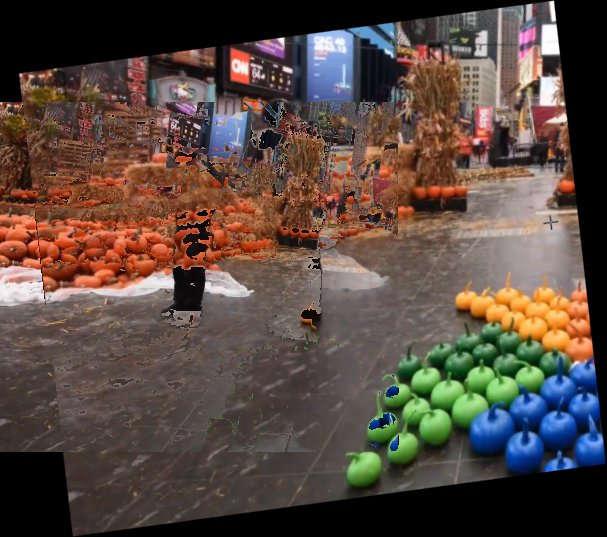
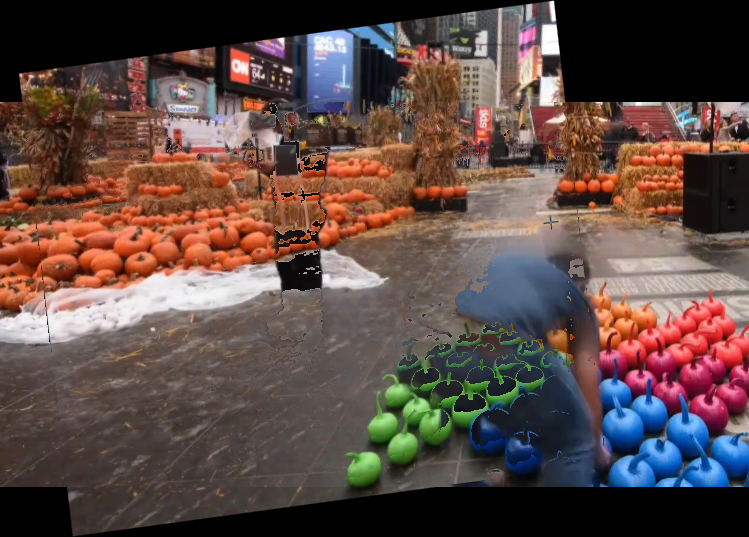
task1 integer typo earlier in script fixed

diff --git a/stitching.py b/stitching.py
@@ -98,7 +98,7 @@ def stitch_background(imgs: Dict[str, torch.Tensor]):
         # Step 1. Calculate mosaic canvas size
         # Extract each image and convert to float
         img1 = imgs[img_num[0]].float()
-        img2 = imgs[img_num[0]].float()
+        img2 = imgs[img_num[1]].float()
         # Extract image dimensions
         c, h1, w1 = img1.shape
         _, h2, w2 = img2.shape
